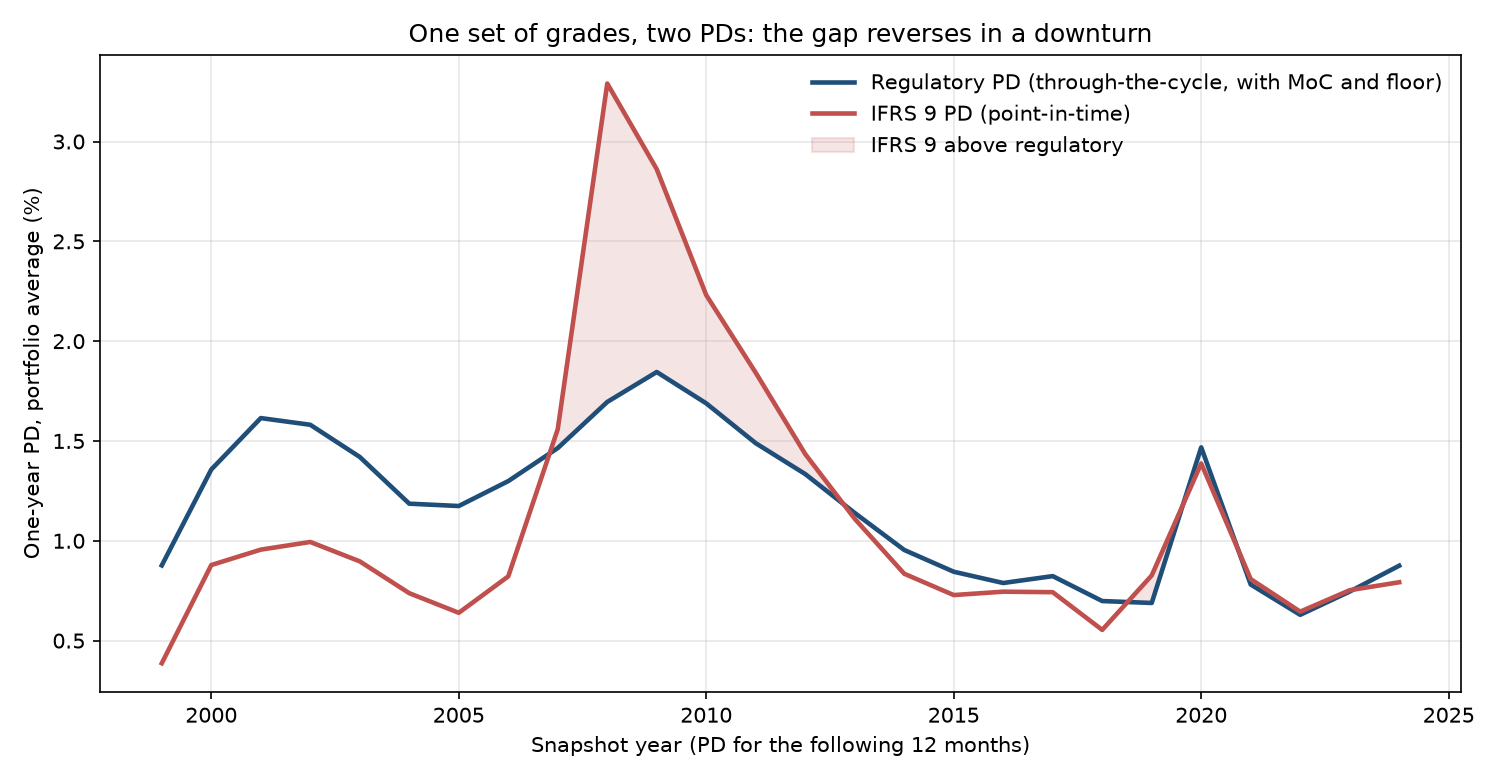
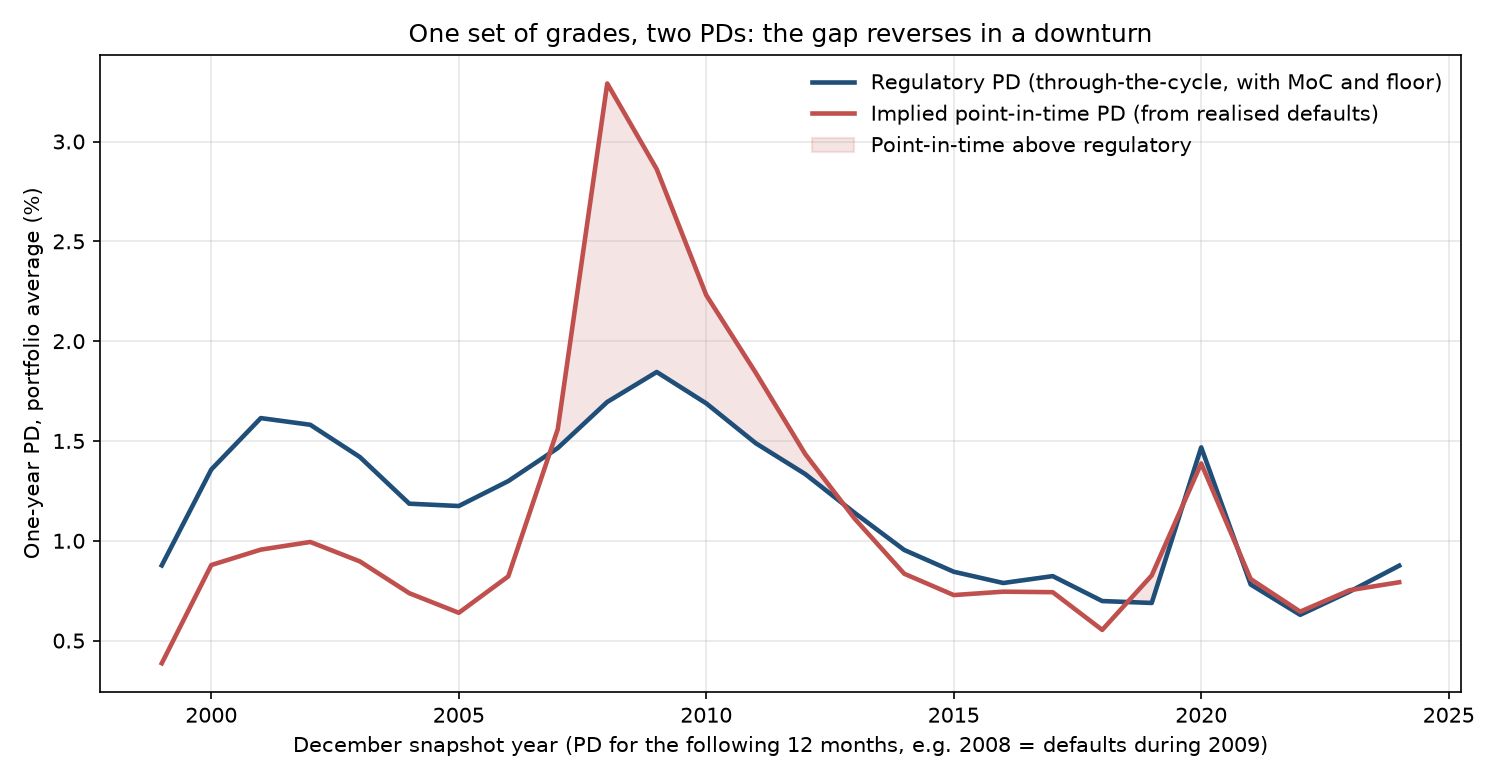
Fix output floor schedule and QRRE floor; relabel implied PIT PD; README accuracy

Changed region(s): [[0.184, 0.9231, 0.828, 0.9846], [0.5827, 0.1231, 0.92, 0.2154]]

diff --git a/tests/test_irb.py b/tests/test_irb.py
@@ -83,7 +83,7 @@ class TestFloors:
     def test_pd_floors_match_uk_rules(self):
         assert irb.apply_pd_floor(0.0001, "residential_mortgage") == pytest.approx(0.0010)
         assert irb.apply_pd_floor(0.0001, "qrre_transactor") == pytest.approx(0.0010)
-        assert irb.apply_pd_floor(0.0001, "qrre_revolver") == pytest.approx(0.0005)
+        assert irb.apply_pd_floor(0.0001, "qrre_revolver") == pytest.approx(0.0010)
         assert irb.apply_pd_floor(0.0001, "other_retail") == pytest.approx(0.0005)
 
     def test_pd_floor_does_not_lower_estimates(self):
@@ -114,20 +114,20 @@ class TestFloors:
 
 class TestOutputFloor:
     def test_phase_in_schedule(self):
-        expected = {2027: 0.550, 2028: 0.600, 2029: 0.650, 2030: 0.700, 2031: 0.725}
+        expected = {2027: 0.600, 2028: 0.650, 2029: 0.700, 2030: 0.725}
         for year, pct in expected.items():
             assert irb.apply_output_floor(100.0, 250.0, year)["floor_pct"] == pytest.approx(pct)
 
     def test_floor_binds_for_low_risk_weight_book(self):
         r = irb.apply_output_floor(100.0, 250.0, 2027)
         assert r["floor_binding"]
-        assert r["rwa_final"] == pytest.approx(137.5)
-        assert r["uplift"] == pytest.approx(37.5)
+        assert r["rwa_final"] == pytest.approx(150.0)
+        assert r["uplift"] == pytest.approx(50.0)
 
     def test_irb_governs_when_above_the_floor(self):
-        r = irb.apply_output_floor(180.0, 250.0, 2027)
+        r = irb.apply_output_floor(160.0, 250.0, 2027)
         assert not r["floor_binding"]
-        assert r["rwa_final"] == pytest.approx(180.0)
+        assert r["rwa_final"] == pytest.approx(160.0)
 
     def test_beyond_schedule_uses_full_floor(self):
         assert irb.apply_output_floor(100.0, 250.0, 2040)["floor_pct"] == pytest.approx(0.725)

diff --git a/scripts/calibrate.py b/scripts/calibrate.py
@@ -48,15 +48,15 @@ def chart(bridge: pd.DataFrame, path: Path) -> None:
     ax.plot(x, bridge.regulatory_pd * 100, lw=2.2, color="#1f4e79",
             label="Regulatory PD (through-the-cycle, with MoC and floor)")
     ax.plot(x, bridge.pit_pd * 100, lw=2.2, color="#c0504d",
-            label="IFRS 9 PD (point-in-time)")
+            label="Implied point-in-time PD (from realised defaults)")
     ax.fill_between(x, bridge.regulatory_pd * 100, bridge.pit_pd * 100,
                     where=bridge.pit_pd > bridge.regulatory_pd, color="#c0504d", alpha=0.15,
-                    interpolate=True, label="IFRS 9 above regulatory")
+                    interpolate=True, label="Point-in-time above regulatory")
     ax.set_ylabel("One-year PD, portfolio average (%)")
     ax.set_title("One set of grades, two PDs: the gap reverses in a downturn")
     ax.grid(alpha=0.3)
     ax.legend(frameon=False, loc="upper right")
-    ax.set_xlabel("Snapshot year (PD for the following 12 months)")
+    ax.set_xlabel("December snapshot year (PD for the following 12 months, e.g. 2008 = defaults during 2009)")
     fig.tight_layout()
     fig.savefig(path, dpi=150)
     plt.close(fig)

diff --git a/scripts/run_pipeline.py b/scripts/run_pipeline.py
@@ -113,7 +113,7 @@ def main() -> None:
     rwa_irb = rw * ead
     rwa_sa = 0.35 * ead          # illustrative standardised risk weight
     print(f"\nAgainst a standardised RWA of {rwa_sa:,.0f}:")
-    for year in (2027, 2028, 2029, 2030, 2031):
+    for year in (2027, 2028, 2029, 2030):
         r = irb.apply_output_floor(rwa_irb, rwa_sa, year)
         flag = f"FLOOR BINDS  +{r['uplift']:,.0f}" if r["floor_binding"] else "IRB governs"
         print(f"  {year}  floor {r['floor_pct']:>5.1%}  -> {r['rwa_floored']:>12,.0f}"

diff --git a/src/hcr/engines/irb.py b/src/hcr/engines/irb.py
@@ -164,7 +164,8 @@ def apply_portfolio_lgd_floor(lgd, ead, exposure_class: str) -> dict:
 
 
 def apply_output_floor(rwa_irb_total: float, rwa_sa_total: float, year: int) -> dict:
-    """RWA_final = max(RWA_IRB, floor% * RWA_SA), with the 2027-2030 phase-in."""
+    """RWA_final = max(RWA_IRB, floor% * RWA_SA), with the PS1/26 phase-in (60% in 2027
+    rising to 72.5% from 2030)."""
     schedule = _CFG["output_floor"]
     floor = schedule.get(year, schedule[max(schedule)])
     floored = floor * rwa_sa_total

diff --git a/README.md b/README.md
@@ -17,13 +17,21 @@ Freddie Mac loan-level data, 27 origination vintages (1999–2025), 1.35 million
 
 ![Regulatory vs IFRS 9 PD, 1999-2024](outputs/calibration/bridge_by_year.png)
 
-**One set of grades, two PDs.** The regulatory PD sits 1.5–1.8× above the IFRS 9 PD in
-benign years; in 2008 the IFRS 9 PD is almost double it (3.29% vs 1.70%). Neither is
-wrong - one is built to be stable and conservative, the other to be unbiased now.
+**One set of grades, two PDs.** Each point is a December snapshot and the PD for the
+following 12 months - so "2008" means loans observed in December 2008, defaulting during
+2009. The regulatory PD sits 1.5–1.8× above the implied point-in-time PD in benign years;
+for the 2008 snapshot the point-in-time PD is almost double it (3.29% vs 1.70%). Neither
+is wrong - one is built to be stable and conservative, the other to be unbiased now.
+
+**What "implied point-in-time PD" means here:** it is backed out from the defaults that
+actually happened (the realised economic factor each year), so it matches the observed
+default rate by construction. It shows what an unbiased IFRS 9 PD *should have been*. A
+forward-looking IFRS 9 PD needs the economic factor forecast from macro scenarios - the
+next workstream.
 
 | | |
 |---|---|
-| Long-run average one-year default rate | 1.17% (1999–2024) |
+| Long-run average one-year default rate | 1.17% pooled across all loan-months, 1.12% averaging years equally (1999–2024). Grade PDs use equal weighting per year |
 | Behavioural scorecard Gini — development / out-of-sample / **out-of-time** | 0.804 / 0.804 / **0.805** |
 | Rating grades | 11, default rates monotonic from 0.01% to 40% |
 | UK 0.10% PD floor | binds for grades 1–3, 27.8% of the book |
@@ -132,15 +140,21 @@ regulatory minimum.
 config/           uk_basel31 · default_definition · ifrs9 · moc · data
 src/hcr/
   config.py       loading + validation
-  data/           synthetic generator; Freddie Mac / SBA / FRED loaders
+  data/           synthetic generator; Freddie Mac loader
   default_def/    DuckDB panel builder and DoD state machine
-  features/       WOE, information value, score scaling
-  pd/             Vasicek TTC↔PIT; scorecard; calibration
-  engines/        irb.py · ecl.py · standardised.py
-  lgd/ ead/       workout LGD, CCF, prepayment
-  validation/     discrimination, calibration, stability
+  features/       WOE, information value, monotonic binning, score scaling
+  pd/             development sample; scorecard; calibration; Vasicek TTC↔PIT
+  engines/        irb.py · ecl.py
 tests/            143 tests
-docs/             DATA.md · MDD · validation report
+docs/             DATA.md · FINDINGS_LOG.md
+```
+
+Planned, not yet built: SBA and FRED/FHFA loaders, the revised standardised approach
+(`engines/standardised.py`), workout LGD (`lgd/`), EAD/CCF and prepayment (`ead/`), the
+validation suite (`validation/`), the MDD and the validation report. The empty package
+folders are placeholders for these.
+
+```
 ```
 
 ---
@@ -157,7 +171,7 @@ portfolio-level for mortgages, 50% QRRE, 30% other unsecured. The mortgage portf
 floor is applied as a proportional scale-up, since it binds on the average not the account.
 
 **Output floor** — `max(RWA_IRB, floor% × RWA_SA)` across the 2027→2030 phase-in
-(55/60/65/70/72.5%).
+(60% from 2027, 65%, 70%, fully loaded 72.5% from 1 January 2030, per PS1/26).
 
 **Vasicek bridge** — `PD_PIT = Φ[(Φ⁻¹(PD_TTC) − √R·Z)/√(1−R)]`, with `Z > 0` benign.
 Two identities are asserted in tests: `E[PD_PIT]` over `Z ~ N(0,1)` equals `PD_TTC`, and

diff --git a/docs/FINDINGS_LOG.md b/docs/FINDINGS_LOG.md
@@ -63,6 +63,11 @@ standard-normal scale is also what the IFRS 9 macro step will need, to map scena
 
 ### The bridge
 
+*Correction note (review):* the "IFRS 9 PD" below is the **implied** point-in-time PD,
+backed out from realised defaults - it equals the observed default rate by construction.
+A forward-looking IFRS 9 PD requires Z forecast from macro scenarios (next workstream).
+Years are December snapshot years: "2008" = loans observed December 2008, defaulting in 2009.
+
 | | Regulatory PD | IFRS 9 PD | Regulatory ÷ IFRS 9 |
 |---|---|---|---|
 | Benign years 2000–2006 | | | 1.54–1.84× |
